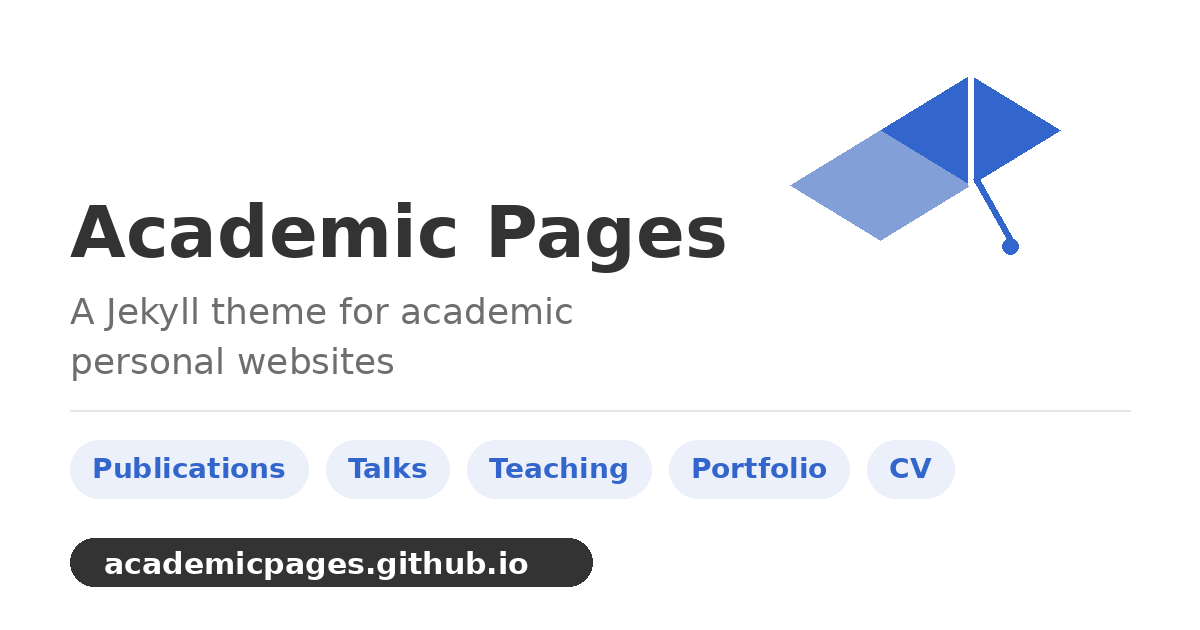
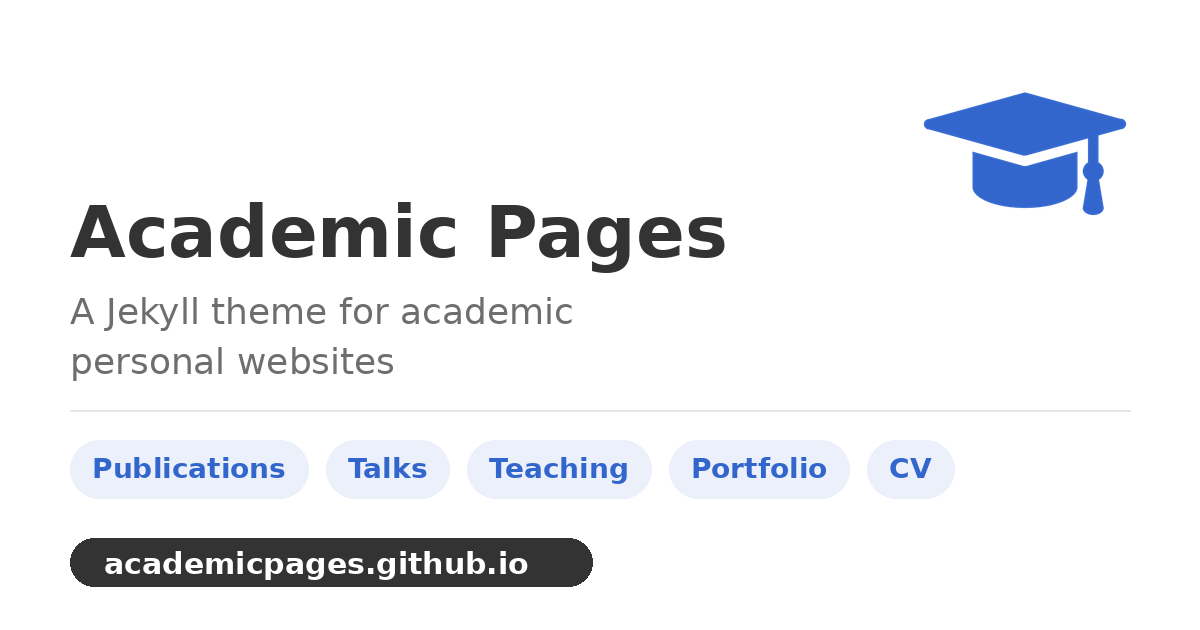
Address maintainer review: restore upstream SEO behavior and fix default OG image
- Twitter/X card tags now emitted only when site.twitter.username is configured
  (upstream behavior); twitter:url guarded by canonical_url
- Restore og:type emission only when page.date exists
- Restore upstream og:description logic (page.excerpt -> site.og_description)
- Document the social-image priority chain (header.image > overlay_image >
  site.og_image > default og-image.png) with Liquid comments
- Emit og:image (with type/width/height for the known 1200x630 default) and
  twitter:image from the resolved absolute image URL
- Regenerate images/og-image.png using the site's actual favicon logo
  (OOjs academic-progressive icon) instead of a hand-drawn motif
- Move the generator from tools/ to scripts/ with scripts/README.md

Changed region(s): [[0.6475, 0.1206, 0.9558, 0.3921], [0.8325, 0.3619, 0.8633, 0.4222]]

diff --git a/_includes/seo.html b/_includes/seo.html
@@ -26,28 +26,28 @@
 {% endif %}
 <meta name="description" content="{{ seo_description }}">
 
-{% assign seo_image = false %}
+{% comment %} ===== Social share image =====
+Priority: page.header.image > page.header.overlay_image > site.og_image > default /images/og-image.png.
+Absolute URLs (containing "://") are used as-is; relative paths are resolved
+under /images/ and prepended with base_path so the result is always absolute.
+{% endcomment %}
+{% assign seo_image_abs = false %}
 {% if page.header.image %}
   {% if page.header.image contains "://" %}
-    {% assign seo_image = page.header.image %}
+    {% assign seo_image_abs = page.header.image %}
   {% else %}
-    {% assign seo_image = page.header.image | prepend: "/images/" | prepend: base_path %}
+    {% assign seo_image_abs = page.header.image | prepend: "/images/" | prepend: base_path %}
   {% endif %}
 {% elsif page.header.overlay_image %}
   {% if page.header.overlay_image contains "://" %}
-    {% assign seo_image = page.header.overlay_image %}
+    {% assign seo_image_abs = page.header.overlay_image %}
   {% else %}
-    {% assign seo_image = page.header.overlay_image | prepend: "/images/" | prepend: base_path %}
+    {% assign seo_image_abs = page.header.overlay_image | prepend: "/images/" | prepend: base_path %}
   {% endif %}
 {% elsif site.og_image %}
-  {% assign seo_image = site.og_image | prepend: "/images/" | prepend: base_path %}
+  {% assign seo_image_abs = site.og_image | prepend: "/images/" | prepend: base_path %}
 {% else %}
-  {% assign seo_image = "/images/og-image.png" | prepend: base_path %}
-{% endif %}
-{% if seo_image contains "://" %}
-  {% assign seo_image_abs = seo_image %}
-{% else %}
-  {% assign seo_image_abs = seo_image | prepend: base_path %}
+  {% assign seo_image_abs = "/images/og-image.png" | prepend: base_path %}
 {% endif %}
 
 {% assign seo_author = page.author | default: page.author[0] | default: site.author[0] %}
@@ -72,23 +72,21 @@
   <link rel="canonical" href="{{ page.url | prepend: seo_url | replace: "/index.html", "/" }}">
 {% endif %}
 
-{% if seo_image %}
-  {% assign seo_twitter_card = "summary_large_image" %}
-{% else %}
-  {% assign seo_twitter_card = "summary" %}
-{% endif %}
-<meta name="twitter:card" content="{{ seo_twitter_card }}">
-<meta name="twitter:title" content="{{ page.title | default: site.title | markdownify | strip_html | strip_newlines | escape_once }}">
-<meta name="twitter:description" content="{{ seo_description }}">
-{% if canonical_url %}
-  <meta name="twitter:url" content="{{ canonical_url }}">
-{% endif %}
-{% if seo_image_abs %}
-  <meta name="twitter:image" content="{{ seo_image_abs }}">
-{% endif %}
-
+{% comment %} Twitter/X card tags are only emitted when the site configures a
+Twitter username (site.twitter.username), matching upstream behavior. {% endcomment %}
 {% if site.twitter.username %}
   <meta name="twitter:site" content="@{{ site.twitter.username | replace: "@", "" }}">
+  <meta name="twitter:title" content="{{ page.title | default: site.title | markdownify | strip_html | strip_newlines | escape_once }}">
+  <meta name="twitter:description" content="{{ seo_description }}">
+  {% if canonical_url %}
+    <meta name="twitter:url" content="{{ canonical_url }}">
+  {% endif %}
+  {% if seo_image_abs %}
+    <meta name="twitter:card" content="summary_large_image">
+    <meta name="twitter:image" content="{{ seo_image_abs }}">
+  {% else %}
+    <meta name="twitter:card" content="summary">
+  {% endif %}
   {% if seo_author_twitter %}
     <meta name="twitter:creator" content="@{{ seo_author_twitter }}">
   {% endif %}
@@ -141,18 +139,26 @@
 <meta property="og:locale" content="{{ site.locale | default: "en" }}">
 <meta property="og:site_name" content="{{ site.title }}"> 
 <meta property="og:title" content="{{ page.title | default: site.title | markdownify | strip_html | strip_newlines | escape_once }}">
-<meta property="og:type" content="{% if page.date %}article{% else %}website{% endif %}">
-{% if seo_description %}
-  <meta property="og:description" content="{{ seo_description }}">
+{% if page.date %}
+  <meta property="og:type" content="article">
+{% endif %}
+{% comment %} Restore upstream description logic: og:description comes from the
+page excerpt, or falls back to site.og_description; it is not emitted otherwise. {% endcomment %}
+{% if page.excerpt %}
+  <meta property="og:description" name="description" content="{{ seo_description }}">
+{% elsif site.og_description %}
+  <meta property="og:description" name="description" content="{{ site.og_description }}">
 {% endif %}
 {% if seo_url %}
   <meta property="og:url" content="{{ page.url | prepend: seo_url | replace: "/index.html", "/" }}">
 {% endif %}
 {% if seo_image_abs %}
   <meta property="og:image" content="{{ seo_image_abs }}">
-  <meta property="og:image:type" content="image/png">
-  <meta property="og:image:width" content="1200">
-  <meta property="og:image:height" content="630">
+  {% if seo_image_abs contains "og-image.png" %}
+    <meta property="og:image:type" content="image/png">
+    <meta property="og:image:width" content="1200">
+    <meta property="og:image:height" content="630">
+  {% endif %}
 {% endif %}
 
 {% if site.og_image %}

diff --git a/scripts/make-og-image.py b/scripts/make-og-image.py
@@ -2,11 +2,20 @@
 """Generate the default 1200x630 OG image for Academic Pages (academicpages.github.io).
 
 Pillow-only, byte-reproducible. Clean academic card matching the template:
-white ground, #36c link-blue accent (the site's favicon/icon color), a simple
-graduation-cap motif, title + subtitle + content pills + domain chip.
+white ground, #36c link-blue accent (the site's favicon/icon color), the site's
+actual favicon logo (images/favicon-512x512.png, the OOjs "academic-progressive"
+icon used across the template), title + subtitle + content pills + domain chip.
+
+Usage:
+    python3 scripts/make-og-image.py
+
+The script writes images/og-image.png. Requires Pillow and a TrueType font
+(default DejaVu Sans; override the font directory with FONT_DIR).
 """
 import os
 from PIL import Image, ImageDraw, ImageFont
+
+REPO_ROOT = os.path.dirname(os.path.dirname(os.path.abspath(__file__)))
 
 W, H = 1200, 630
 BG = (255, 255, 255)          # white
@@ -38,17 +47,19 @@ def main():
     f_sub = font(36)
     f_pill = font(28, bold=True)
     f_domain = font(30, bold=True)
-    f_foot = font(24)
 
-    # Graduation cap motif (top-right): simple mortarboard + tassel
-    mx = W - 230
-    my = 130
-    d.polygon([(mx - 90, my), (mx, my - 55), (mx + 90, my), (mx, my + 55)], fill=BLUE)
-    d.polygon([(mx - 90, my), (mx, my + 55), (mx - 90, my + 110), (mx - 180, my + 55)], fill=(130, 160, 215))
-    d.line([mx, my - 55, mx, my + 55], fill=(255, 255, 255), width=6)
-    # tassel
-    d.line([mx + 5, my + 48, mx + 40, my + 110], fill=BLUE, width=6)
-    d.ellipse([mx + 32, my + 108, mx + 48, my + 124], fill=BLUE)
+    # Official site logo (top-right): composite the template's real favicon
+    logo_path = os.path.join(REPO_ROOT, "images", "favicon-512x512.png")
+    if os.path.exists(logo_path):
+        logo = Image.open(logo_path).convert("RGBA")
+        logo.thumbnail((210, 210), Image.Resampling.LANCZOS)
+        img.paste(logo, (W - 210 - 70, 40), logo)
+    else:
+        # Fallback: simple graduation-cap motif if the favicon is missing
+        mx, my = W - 230, 130
+        d.polygon([(mx - 90, my), (mx, my - 55), (mx + 90, my), (mx, my + 55)], fill=BLUE)
+        d.polygon([(mx - 90, my), (mx, my + 55), (mx - 90, my + 110), (mx - 180, my + 55)], fill=(130, 160, 215))
+        d.polygon([(mx - 90, my + 110), (mx - 180, my + 55), (mx - 180, my + 110), (mx - 90, my + 165)], fill=(130, 160, 215))
 
     # Title + subtitle (left)
     d.text((70, 190), "Academic Pages", font=f_title, fill=DARK)
@@ -76,7 +87,7 @@ def main():
     d.rounded_rectangle([70, H - 92, 592, H - 44], 24, fill=DARK)
     d.text((104, H - 84), "academicpages.github.io", font=f_domain, fill=(255, 255, 255))
 
-    out = os.path.join(os.path.dirname(os.path.abspath(__file__)), "..", "images", "og-image.png")
+    out = os.path.join(REPO_ROOT, "images", "og-image.png")
     img.save(out, "PNG")
     print("wrote", os.path.normpath(out), img.size)
 

diff --git a/scripts/README.md b/scripts/README.md
@@ -1,0 +1,24 @@
+# scripts/
+
+Utility scripts for this repository.
+
+## `make-og-image.py`
+
+Generates the default Open Graph / social preview image at
+`images/og-image.png` (1200x630 PNG) used by `_includes/seo.html` when a page
+does not define its own header image.
+
+```
+python3 scripts/make-og-image.py
+```
+
+Requirements:
+
+- Python 3 with [Pillow](https://python-pillow.org) (`pip install Pillow`)
+- A TrueType font; defaults to DejaVu Sans (`/usr/share/fonts/truetype/dejavu`),
+  override with the `FONT_DIR` environment variable
+- The site favicon at `images/favicon-512x512.png` (already in the template);
+  it is composited as the card logo
+
+The output is byte-reproducible for a given Pillow/font version and is committed
+to the repo, so the build itself does not need Pillow.
